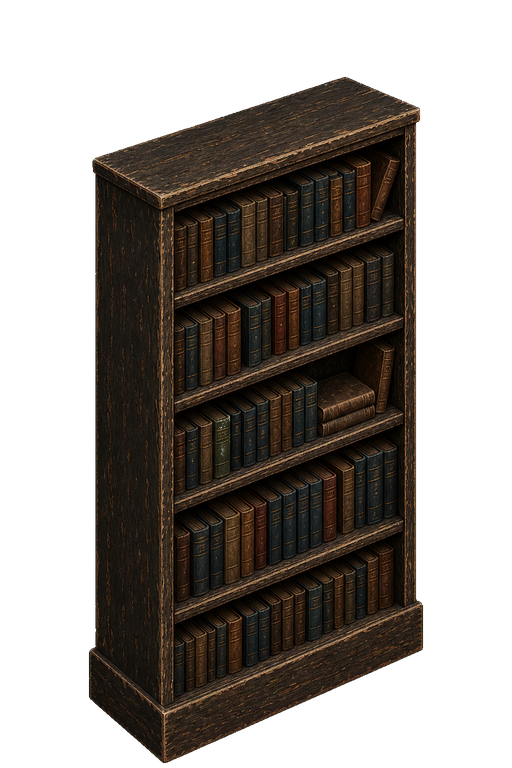
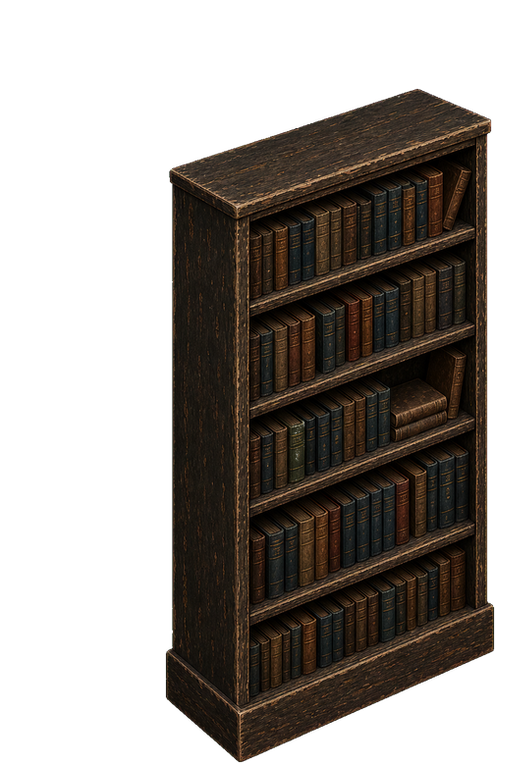
Seat the SE bookshelf on the records-wall floor line.
Recenter the prop foot under the pivot and drop placement so the base meets the floor with the filing cabinets.

diff --git a/RainShadow Shared/Gameplay/Navigation/OfficeNavigationLayout.swift b/RainShadow Shared/Gameplay/Navigation/OfficeNavigationLayout.swift
@@ -693,7 +693,7 @@ enum OfficeNavigationLayout {
     static let authoredSafeObstacle = CGRect(x: 1027, y: 1439, width: 173, height: 76)
     static let authoredFilingCabinetBObstacle = CGRect(x: 900, y: 1386, width: 161, height: 71)
     static let authoredFilingCabinetObstacle = CGRect(x: 764, y: 1329, width: 161, height: 71)
-    static let authoredBookshelfObstacle = CGRect(x: 583, y: 1251, width: 223, height: 101)
+    static let authoredBookshelfObstacle = CGRect(x: 603, y: 1_189, width: 223, height: 101)
     static let authoredArchiveBoxAObstacle = CGRect(x: 782, y: 1253, width: 137, height: 60)
     static let authoredRadiatorObstacle = CGRect(x: 1202, y: 1519, width: 173, height: 79)
     static let authoredPersonalSideboardObstacle = CGRect(x: 1465, y: 1620, width: 245, height: 110)
@@ -753,9 +753,9 @@ enum OfficeNavigationLayout {
         CGPoint(x: 876, y: 1_375),
     ]
     static let authoredBookshelfSamplePoints: [CGPoint] = [
-        CGPoint(x: 694, y: 1_301),
-        CGPoint(x: 650, y: 1_286),
-        CGPoint(x: 739, y: 1_316),
+        CGPoint(x: 714, y: 1_239),
+        CGPoint(x: 670, y: 1_224),
+        CGPoint(x: 759, y: 1_254),
     ]
     static let authoredArchiveBoxASamplePoints: [CGPoint] = [
         CGPoint(x: 850, y: 1_284),
@@ -863,7 +863,8 @@ enum OfficeNavigationLayout {
         static let safe = CGPoint(x: 1_113, y: 1_477)  // records run, east end
         static let filingCabinetB = CGPoint(x: 981, y: 1_421)
         static let filingCabinet = CGPoint(x: 844, y: 1_364)  // drawer half open
-        static let bookshelf = CGPoint(x: 694, y: 1_301)
+        /// SE-facing v03 foot tip is pivot-centered; sit on the records-wall floor line.
+        static let bookshelf = CGPoint(x: 714, y: 1_239)
         static let archiveBoxOnCabinet = CGPoint(x: 981, y: 1_421)  // on cabinet B
         static let archiveStackOnCabinet = CGPoint(x: 844, y: 1_364)  // on cabinet A
         static let archiveBoxA = CGPoint(x: 850, y: 1_284)  // only floor stack

diff --git a/RainShadow Shared/Gameplay/Navigation/OfficeInteriorScale.swift b/RainShadow Shared/Gameplay/Navigation/OfficeInteriorScale.swift
@@ -87,7 +87,7 @@ enum OfficeInteriorScale {
         static let wornRug: CGFloat = 573
         static let hiddenBottle: CGFloat = 200
         static let framedPhoto: CGFloat = 180
-        static let bookshelf: CGFloat = 687
+        static let bookshelf: CGFloat = 673
         static let pencilTray: CGFloat = 70
         static let standingDetective = standingDetectiveSourceHeight
         static let seatedDetective = seatedDetectiveSourceHeight
